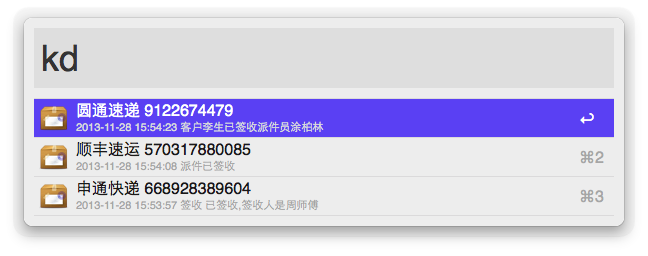
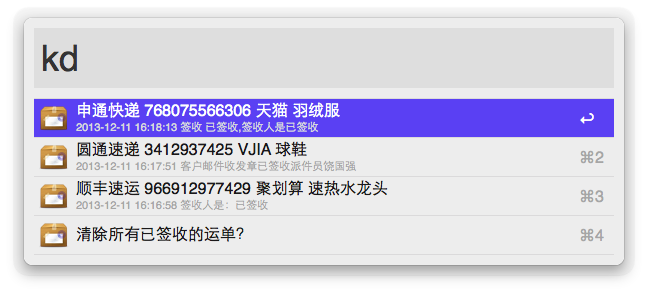
ver 1.3.0

diff --git a/src/express/express.py b/src/express/express.py
@@ -9,7 +9,7 @@ from pprint import pprint
 import alfred
 alfred.setDefaultEncodingUTF8()
 
-__version__ = '1.2.0'
+__version__ = '1.3.0'
 
 _base_host = 'http://www.kuaidi100.com/'
 

diff --git a/README.md b/README.md
@@ -146,6 +146,10 @@ Demo: [Youtube](http://youtu.be/UY2mk0PB9yg) [Youku](http://v.youku.com/v_show/i
 
 快递查询，支持几乎所有国内快递公司快件跟踪。
 
+* 自动从运单号判断快递公司
+* 支持运单保存
+* 支持运单备注
+
 ![Express Screenshot](https://raw.github.com/JinnLynn/alfred-workflows/master/bin/express.png)
 
 [Direct Download](https://github.com/JinnLynn/alfred-workflows/raw/master/bin/express.alfredworkflow) 
@@ -154,7 +158,7 @@ Demo: [Youtube](http://youtu.be/UY2mk0PB9yg) [Youku](http://v.youku.com/v_show/i
  / 
 Demo: [Youtube](http://youtu.be/FZrEA6lZNc8) [Youku](http://v.youku.com/v_show/id_XNjQwOTMzOTQ4.html)
 
-*last updated: 2013-12-10 version: 1.2.0*
+*last updated: 2013-12-11 version: 1.3.0*
 
 
 
